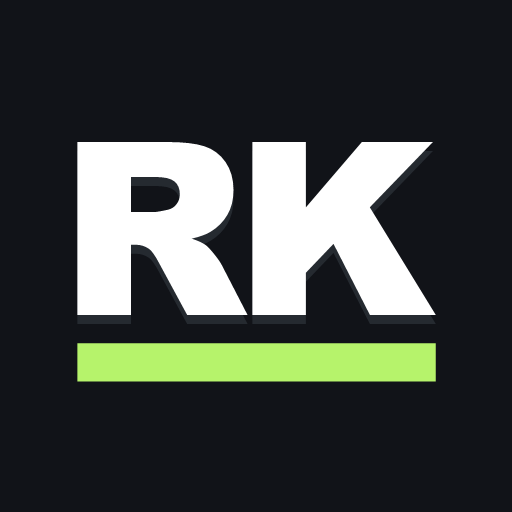
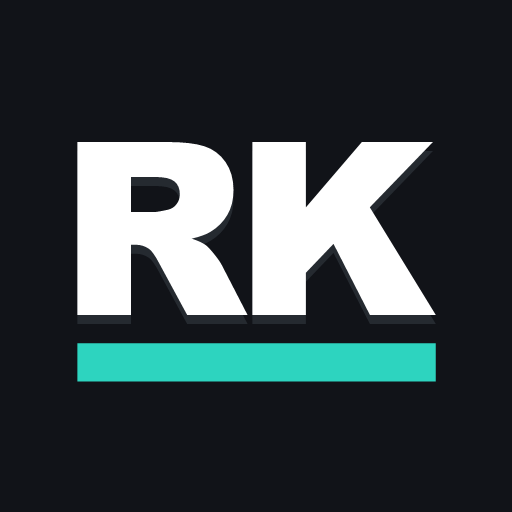
Forged Turquoise als accent in plaats van lime

Changed region(s): [[0.125, 0.6562, 0.875, 0.75]]

diff --git a/index.html b/index.html
@@ -16,18 +16,18 @@
    ============================================================ */
 :root{
   /* REP KING FORGED — één palet, altijd donker. De lichte modus is eruit:
-     Forged Lime haalt op wit 1,33 op 1 aan contrast en is daar onleesbaar,
+     Forged Turquoise haalt op wit 1,8 op 1 aan contrast en is daar onleesbaar,
      en de lichte modus werd nooit gebruikt.
      Almost Black #111318 · Dark Steel #252A30 · Steel Grey #858A91
-     Forged Lime #B6F36B · White #FFFFFF                                   */
+     Forged Turquoise #2DD4BF · White #FFFFFF                                   */
   --ground:#111318; --surface:#171A20; --surface-2:#1C2027; --surface-3:#252A30;
   --line:#252A30; --line-strong:#3A4049;
   --ink:#FFFFFF; --ink-2:#B9BEC5; --ink-3:#858A91;
-  --accent:#B6F36B; --accent-ink:#111318; --accent-soft:#24301A; --accent-line:#4A6B2C;
-  /* Bewust gróén-blauw en niet limegroen: in de gestapelde weekgrafiek staan
-     Duwen (accent) en Trekken (good) naast elkaar, en twee tinten lime zijn
-     daar niet uit elkaar te houden. */
-  --good:#4ECB8F; --good-soft:#12332A;
+  --accent:#2DD4BF; --accent-ink:#111318; --accent-soft:#123029; --accent-line:#2A6A62;
+  /* Bewust groen en niet turquoise: in de gestapelde weekgrafiek staan
+     Duwen (accent) en Trekken (good) naast elkaar. Met turquoise als accent
+     moet good gewoon groen zijn, anders lopen die twee in elkaar over. */
+  --good:#8FD96B; --good-soft:#1B2A16;
   --warn:#E3B341; --warn-soft:#332913;
   --bad:#F0685B;  --bad-soft:#3A1B18;
   --shadow-1:0 1px 2px rgba(0,0,0,.4);
@@ -556,7 +556,7 @@ const CATS=[["push","Duwen"],["pull","Trekken"],["legs","Benen"],["core","Core"]
 
 /* ---------- 3. Opslag --------------------------------------------------- */
 const KEY="ijzerlog.v1";
-const VERSIE="30 okt 2026 - 15:00";   // zichtbaar onder Meer -> Over, om te zien welke versie je telefoon draait
+const VERSIE="30 okt 2026 - 15:40";   // zichtbaar onder Meer -> Over, om te zien welke versie je telefoon draait
 let storageOK=true;
 const DB={
   d:null,
@@ -5512,7 +5512,7 @@ const Meer={
     const s=S();
     Sheet.open("Instellingen",`
       <p class="mut">REP KING FORGED draait altijd op het donkere palet. De lichte modus is eruit:
-        Forged Lime is op wit niet te lezen, en je gebruikte hem nooit.</p>
+        Forged Turquoise is op wit niet te lezen, en je gebruikte hem nooit.</p>
       <button class="btn primary wide" type="button" onclick="Meer.stSave()">Opslaan</button>`);
   },
   tog(btn,k){ S()[k]=!S()[k]; btn.classList.toggle("on",S()[k]); DB.save(); },
@@ -5526,7 +5526,7 @@ const Meer={
   about(){
     Sheet.open("Over REP KING FORGED",`
       <div style="display:flex;align-items:center;gap:14px;padding:2px 0 4px">
[2 lines of base64/hex data omitted]
              style="border-radius:13px;flex:none;box-shadow:var(--shadow-1)">
         <div><b style="font-size:17px;font-weight:800;letter-spacing:.04em">REP KING FORGED</b>
         <div style="font-size:11.5px;letter-spacing:.16em;color:var(--accent);font-weight:700">REFORGE YOURSELF.</div>

diff --git a/sw.js b/sw.js
@@ -10,7 +10,7 @@
 /* Verhoog dit nummer bij elke uitgave: alles wat onder een oudere naam bewaard
    is, wordt bij het activeren weggegooid. Zo blijft er nooit een oude versie
    op een telefoon hangen. */
-const CACHE = "repking-v39";
+const CACHE = "repking-v40";
 const BESTANDEN = [
   "./",
   "./index.html",
